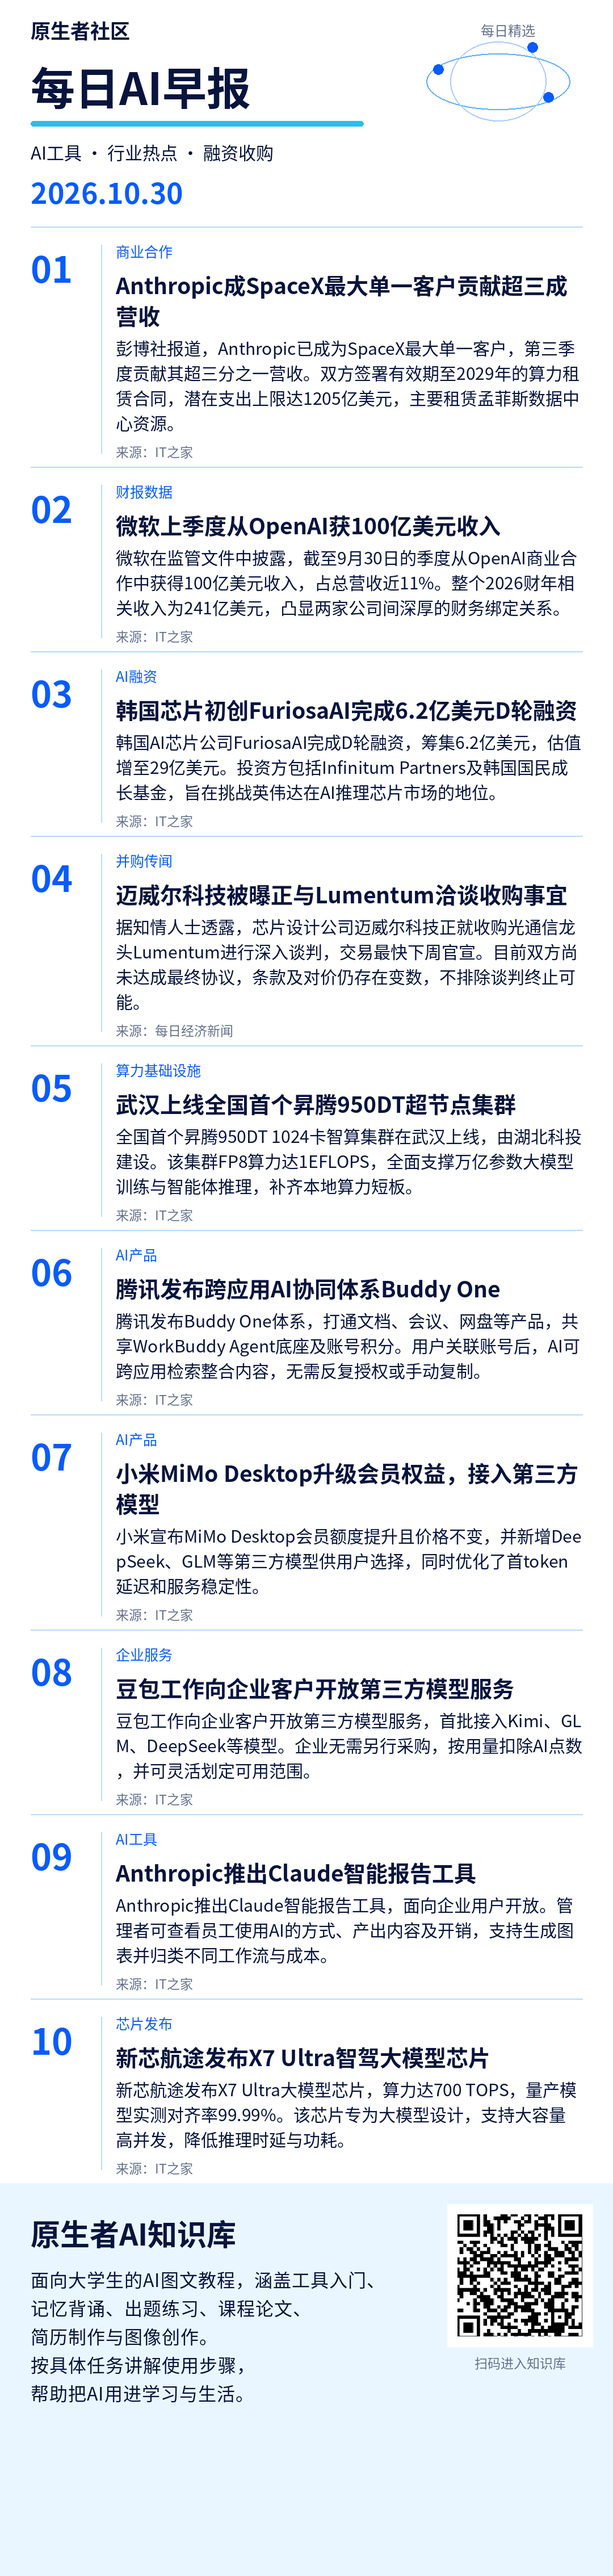
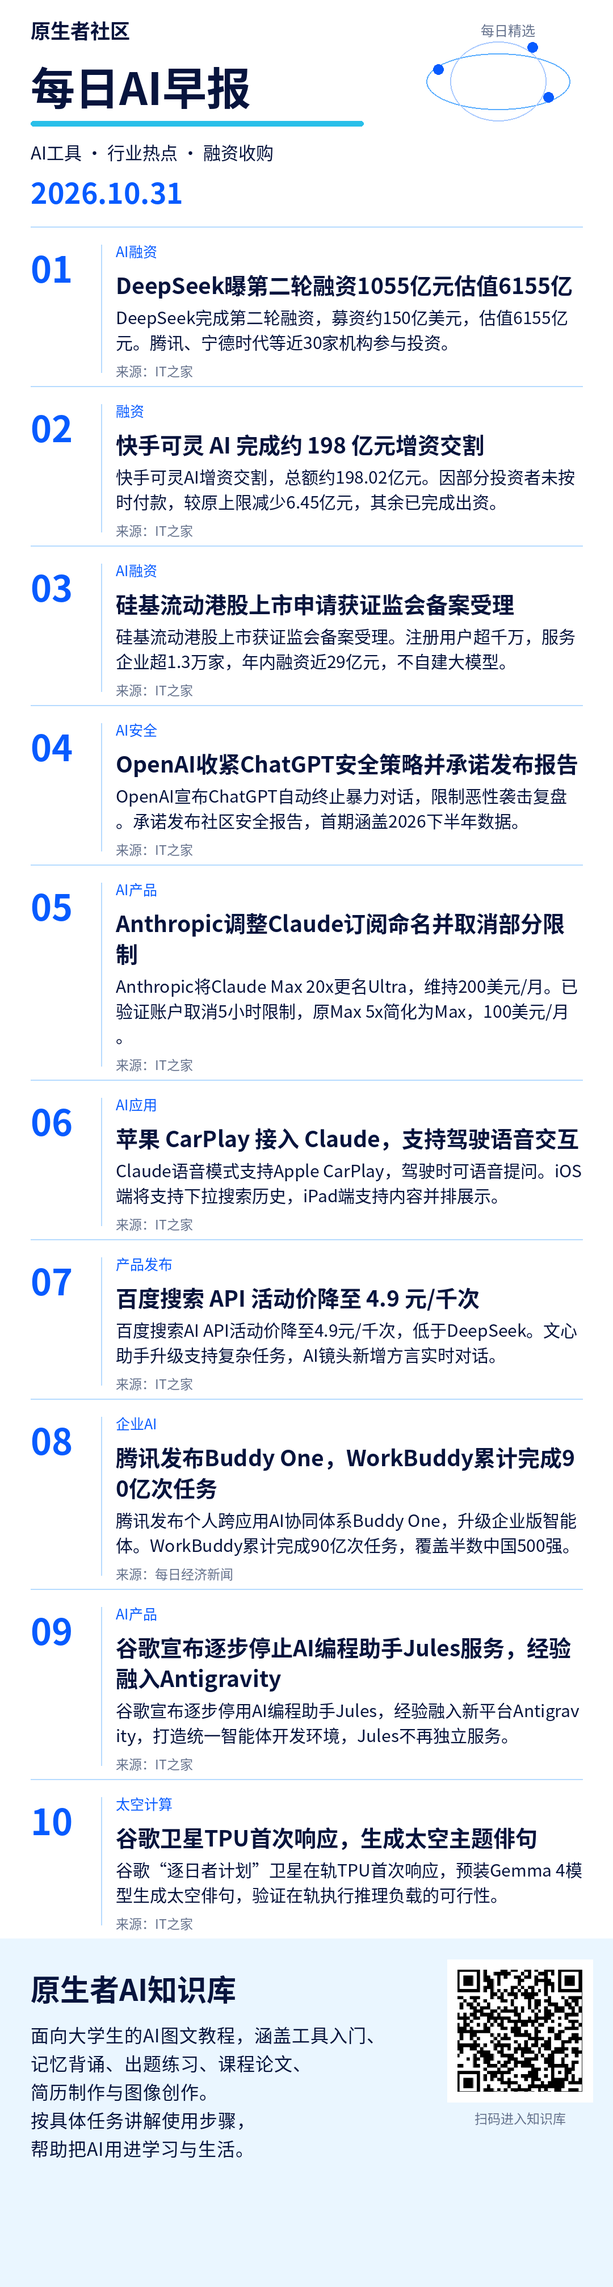
Publish mobile brief 2026-10-31

diff --git a/index.html b/index.html
@@ -2,16 +2,16 @@
 <html lang="zh-CN"><meta charset="utf-8"><meta name="viewport" content="width=device-width, initial-scale=1">
 <title>原生者社区 · 每日AI早报</title>
 <style>body{margin:0;background:#f4f6fa;color:#18263d;font-family:system-ui,sans-serif}main{max-width:680px;margin:auto;padding:24px 16px}h1{font-size:25px;margin:8px 0}p{line-height:1.7}small{color:#59677c}section{background:white;padding:20px;border-radius:16px;margin:20px 0}img{width:100%;height:auto;display:block}a,button{display:inline-block;background:#182f55;color:white;padding:12px 18px;border:0;border-radius:10px;text-decoration:none;font-size:16px}textarea{box-sizing:border-box;width:100%;height:360px;border:1px solid #d5dce7;border-radius:10px;padding:12px;font:16px/1.7 system-ui;resize:vertical}#status{min-height:28px;color:#345786}</style>
-<main><small>原生者社区</small><h1>每日AI早报</h1><p>2026-10-30</p>
+<main><small>原生者社区</small><h1>每日AI早报</h1><p>2026-10-31</p>
 <section><h2>简报图片</h2><p>长按下面的图片，选择“保存图片”，即可发到群里。</p>
 <a href="brief.png" target="_blank" rel="noopener">打开完整图片</a><p></p><img src="brief.png" alt="原生者社区每日简报"></section>
-<section><h2>每日群发内容</h2><p><a href="https://www.ithome.com/1/019/845.htm" target="_blank" rel="noopener">Anthropic成SpaceX最大单一客户贡献超三成营收</a></p><p><a href="https://www.ithome.com/1/019/583.htm" target="_blank" rel="noopener">微软上季度从OpenAI获100亿美元收入</a></p><p><a href="https://wcno0em1rfbm.feishu.cn/wiki/LZKUwVb69iX6FjkkB2schOFvnRc" target="_blank" rel="noopener">新手成长地图</a></p><textarea id="copy" readonly>1. Anthropic成SpaceX最大单一客户贡献超三成营收
-https://www.ithome.com/1/019/845.htm
+<section><h2>每日群发内容</h2><p><a href="https://www.ithome.com/1/020/121.htm" target="_blank" rel="noopener">DeepSeek曝第二轮融资1055亿元估值6155亿</a></p><p><a href="https://www.ithome.com/1/020/406.htm" target="_blank" rel="noopener">快手可灵 AI 完成约 198 亿元增资交割</a></p><p><a href="https://wcno0em1rfbm.feishu.cn/wiki/FhxHwN4ueij1UakFcs2cpbEqn9g" target="_blank" rel="noopener">NotebookLM 学习卡与测验导读</a></p><textarea id="copy" readonly>1. DeepSeek曝第二轮融资1055亿元估值6155亿
+https://www.ithome.com/1/020/121.htm
 
-2. 微软上季度从OpenAI获100亿美元收入
-https://www.ithome.com/1/019/583.htm
+2. 快手可灵 AI 完成约 198 亿元增资交割
+https://www.ithome.com/1/020/406.htm
 
-这份成长地图把入门拆成认识 AI、跑通工具、按任务学一招、做出作品四步，也给出卡住时的查找入口。
-https://wcno0em1rfbm.feishu.cn/wiki/LZKUwVb69iX6FjkkB2schOFvnRc</textarea><p></p>
+这篇介绍如何用课程资料生成学习卡和测验，以及难度、题量、答题解释等设置，适合先拿一章内容做自测。
+https://wcno0em1rfbm.feishu.cn/wiki/FhxHwN4ueij1UakFcs2cpbEqn9g</textarea><p></p>
 <button id="copyButton" type="button">复制群发内容</button><p id="status" role="status"></p></section></main>
 <script>document.getElementById('copyButton').onclick=async()=>{const t=document.getElementById('copy');const s=document.getElementById('status');try{await navigator.clipboard.writeText(t.value);s.textContent='已复制，可以粘贴到群里。';}catch(e){t.focus();t.select();t.setSelectionRange(0,t.value.length);try{if(!document.execCommand('copy'))throw Error();s.textContent='已复制，可以粘贴到群里。';}catch(e){s.textContent='已选中配文，请长按文字，选择复制。';}}};</script></html>

diff --git a/2026-10-31/bf62fff961bb2505/index.html b/2026-10-31/bf62fff961bb2505/index.html
@@ -1,0 +1,17 @@
+<!doctype html>
+<html lang="zh-CN"><meta charset="utf-8"><meta name="viewport" content="width=device-width, initial-scale=1">
+<title>原生者社区 · 每日AI早报</title>
+<style>body{margin:0;background:#f4f6fa;color:#18263d;font-family:system-ui,sans-serif}main{max-width:680px;margin:auto;padding:24px 16px}h1{font-size:25px;margin:8px 0}p{line-height:1.7}small{color:#59677c}section{background:white;padding:20px;border-radius:16px;margin:20px 0}img{width:100%;height:auto;display:block}a,button{display:inline-block;background:#182f55;color:white;padding:12px 18px;border:0;border-radius:10px;text-decoration:none;font-size:16px}textarea{box-sizing:border-box;width:100%;height:360px;border:1px solid #d5dce7;border-radius:10px;padding:12px;font:16px/1.7 system-ui;resize:vertical}#status{min-height:28px;color:#345786}</style>
+<main><small>原生者社区</small><h1>每日AI早报</h1><p>2026-10-31</p>
+<section><h2>简报图片</h2><p>长按下面的图片，选择“保存图片”，即可发到群里。</p>
+<a href="brief.png" target="_blank" rel="noopener">打开完整图片</a><p></p><img src="brief.png" alt="原生者社区每日简报"></section>
+<section><h2>每日群发内容</h2><p><a href="https://www.ithome.com/1/020/121.htm" target="_blank" rel="noopener">DeepSeek曝第二轮融资1055亿元估值6155亿</a></p><p><a href="https://www.ithome.com/1/020/406.htm" target="_blank" rel="noopener">快手可灵 AI 完成约 198 亿元增资交割</a></p><p><a href="https://wcno0em1rfbm.feishu.cn/wiki/FhxHwN4ueij1UakFcs2cpbEqn9g" target="_blank" rel="noopener">NotebookLM 学习卡与测验导读</a></p><textarea id="copy" readonly>1. DeepSeek曝第二轮融资1055亿元估值6155亿
+https://www.ithome.com/1/020/121.htm
+
+2. 快手可灵 AI 完成约 198 亿元增资交割
+https://www.ithome.com/1/020/406.htm
+
+这篇介绍如何用课程资料生成学习卡和测验，以及难度、题量、答题解释等设置，适合先拿一章内容做自测。
+https://wcno0em1rfbm.feishu.cn/wiki/FhxHwN4ueij1UakFcs2cpbEqn9g</textarea><p></p>
+<button id="copyButton" type="button">复制群发内容</button><p id="status" role="status"></p></section></main>
+<script>document.getElementById('copyButton').onclick=async()=>{const t=document.getElementById('copy');const s=document.getElementById('status');try{await navigator.clipboard.writeText(t.value);s.textContent='已复制，可以粘贴到群里。';}catch(e){t.focus();t.select();t.setSelectionRange(0,t.value.length);try{if(!document.execCommand('copy'))throw Error();s.textContent='已复制，可以粘贴到群里。';}catch(e){s.textContent='已选中配文，请长按文字，选择复制。';}}};</script></html>

diff --git a/2026-10-31/index.html b/2026-10-31/index.html
@@ -1,0 +1,17 @@
+<!doctype html>
+<html lang="zh-CN"><meta charset="utf-8"><meta name="viewport" content="width=device-width, initial-scale=1">
+<title>原生者社区 · 每日AI早报</title>
+<style>body{margin:0;background:#f4f6fa;color:#18263d;font-family:system-ui,sans-serif}main{max-width:680px;margin:auto;padding:24px 16px}h1{font-size:25px;margin:8px 0}p{line-height:1.7}small{color:#59677c}section{background:white;padding:20px;border-radius:16px;margin:20px 0}img{width:100%;height:auto;display:block}a,button{display:inline-block;background:#182f55;color:white;padding:12px 18px;border:0;border-radius:10px;text-decoration:none;font-size:16px}textarea{box-sizing:border-box;width:100%;height:360px;border:1px solid #d5dce7;border-radius:10px;padding:12px;font:16px/1.7 system-ui;resize:vertical}#status{min-height:28px;color:#345786}</style>
+<main><small>原生者社区</small><h1>每日AI早报</h1><p>2026-10-31</p>
+<section><h2>简报图片</h2><p>长按下面的图片，选择“保存图片”，即可发到群里。</p>
+<a href="brief.png" target="_blank" rel="noopener">打开完整图片</a><p></p><img src="brief.png" alt="原生者社区每日简报"></section>
+<section><h2>每日群发内容</h2><p><a href="https://www.ithome.com/1/020/121.htm" target="_blank" rel="noopener">DeepSeek曝第二轮融资1055亿元估值6155亿</a></p><p><a href="https://www.ithome.com/1/020/406.htm" target="_blank" rel="noopener">快手可灵 AI 完成约 198 亿元增资交割</a></p><p><a href="https://wcno0em1rfbm.feishu.cn/wiki/FhxHwN4ueij1UakFcs2cpbEqn9g" target="_blank" rel="noopener">NotebookLM 学习卡与测验导读</a></p><textarea id="copy" readonly>1. DeepSeek曝第二轮融资1055亿元估值6155亿
+https://www.ithome.com/1/020/121.htm
+
+2. 快手可灵 AI 完成约 198 亿元增资交割
+https://www.ithome.com/1/020/406.htm
+
+这篇介绍如何用课程资料生成学习卡和测验，以及难度、题量、答题解释等设置，适合先拿一章内容做自测。
+https://wcno0em1rfbm.feishu.cn/wiki/FhxHwN4ueij1UakFcs2cpbEqn9g</textarea><p></p>
+<button id="copyButton" type="button">复制群发内容</button><p id="status" role="status"></p></section></main>
+<script>document.getElementById('copyButton').onclick=async()=>{const t=document.getElementById('copy');const s=document.getElementById('status');try{await navigator.clipboard.writeText(t.value);s.textContent='已复制，可以粘贴到群里。';}catch(e){t.focus();t.select();t.setSelectionRange(0,t.value.length);try{if(!document.execCommand('copy'))throw Error();s.textContent='已复制，可以粘贴到群里。';}catch(e){s.textContent='已选中配文，请长按文字，选择复制。';}}};</script></html>
